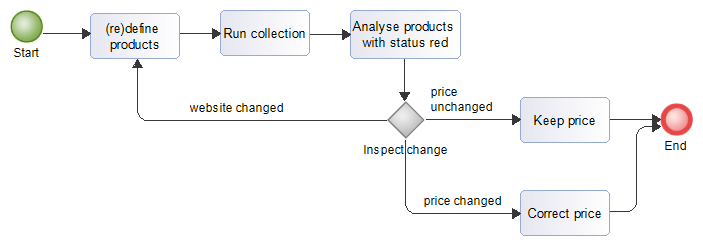
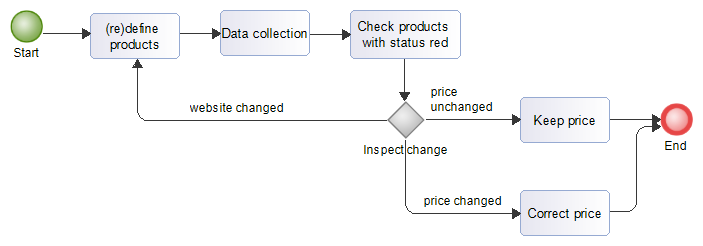
terminology

Changed region(s): [[0.478, 0.0854, 0.6572, 0.1423], [0.2987, 0.1138, 0.4481, 0.1707]]

diff --git a/README.md b/README.md
@@ -3,12 +3,15 @@ Tool for detecting (price) changes on webpages, created and used by Statistics N
 
 ## Workflow
 The RobotTool is an interactive tool for price analysts.
-The analyst defines a number of products and for each product where the product can be found on the web.
-In a data collection run the tool checks the product descriptions (including prices) for changes with respect to the last run.
-If nothing changed, the product status turns green and the price that was stored in the last run is written as a price observation to the databse.
-If there is a change detected the product status turns red and the changes with respect to the last run are shown.
-The analyst checks all red products and manually enters the correct price.
-In case the red status was due to the fact that the product was not found, the analyst redefines the product configuration.
+
+The analyst **defines** a number of **products** and for each product where the product can be found on the web.
+During **data collection** the tool checks the product descriptions on the web.
+If nothing changed the product status turns green and the price that was stored in the last run is added to the databse.
+If a change was detected the product status turns red.
+The analyst **checks** all **products with status red**:
+- If the **price** was **unchanged** the analysts **keep price button**.
+- If the **price** was **changed** the analyst **corrects the price**.
+- If the product was not found usually because of a **website change** the analyst **redefines** the **product** configuration.
 The analyst typically repeats this proces on a regular basis, per week or month, for example in the proces to compose the HICP.
 
 ![Workflow](workflow.png)
